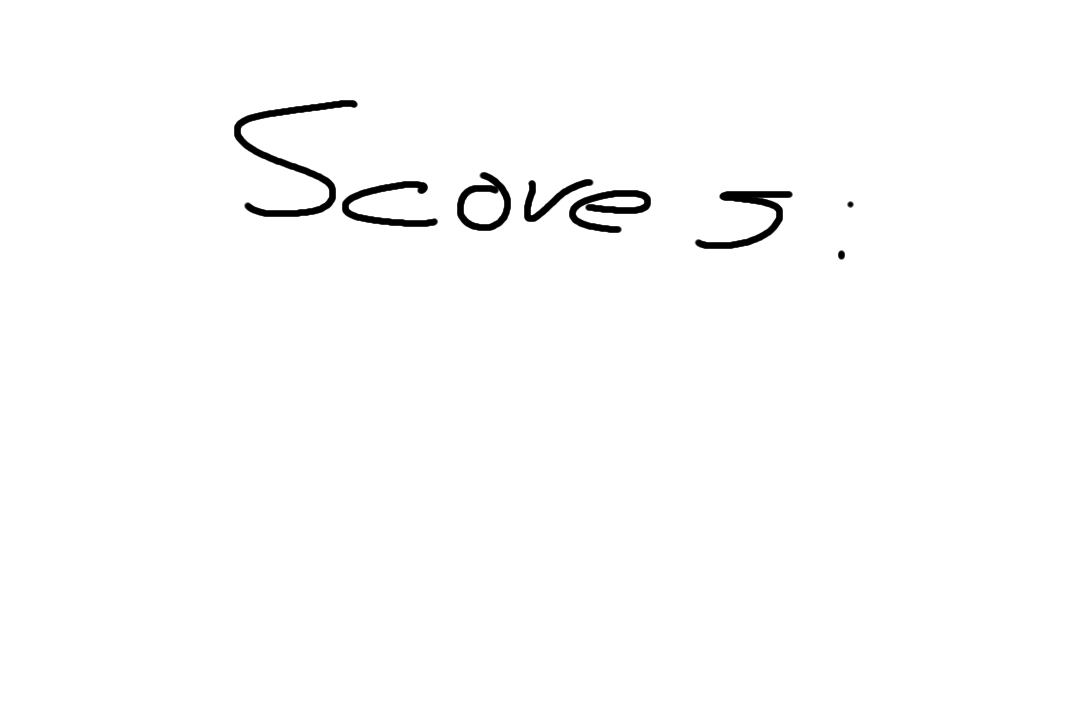
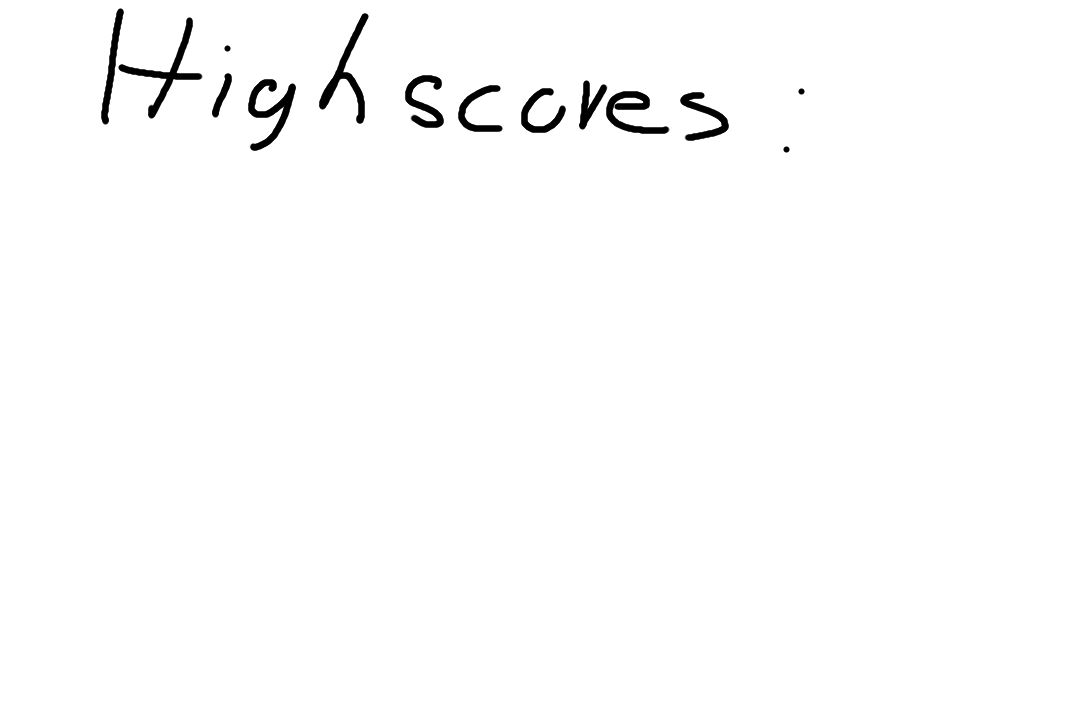
Fixed bugs getting stuck Fixed player not resetting properly in main menu

diff --git a/game.py b/game.py
@@ -158,7 +158,7 @@ class Game(arcade.Window):
                 file.write(str(value) + "\n")
 
     def display_scores(self):
-        score_pos_y = SCREEN_HEIGHT / 4 * 3
+        score_pos_y = SCREEN_HEIGHT / 3 * 2
         font_size = 20
         for score in self.high_scores:
             score = str(score)
@@ -167,11 +167,12 @@ class Game(arcade.Window):
                 start_x=SCREEN_WIDTH / 2,
                 start_y=score_pos_y,
                 font_name="arial",
-                font_size=font_size,
+                font_size=40,
                 color=arcade.color.BLACK,
                 align="center",
                 anchor_x="center",
                 anchor_y="center",
+                bold=True
             )
             score_pos_y += -font_size * 2
 
@@ -278,6 +279,7 @@ class Game(arcade.Window):
                 self.high_scores.append(self.player.current_score)
                 self.player.reset()
                 self.reset_all_creatures()
+                self.reset_all_obstacles()
                 for creature in self.all_creature_sprites_list:
                     creature.reset_to_random_position()
 
@@ -475,6 +477,7 @@ class Game(arcade.Window):
             )
             if len(collision_list) > 0:
                 if not creature.frozen:
+                    creature.center_x += creature.collision_radius *0.1
                     creature.reverse_movement()
 
         if self.player.is_attacking is False:

diff --git a/player.py b/player.py
@@ -117,6 +117,10 @@ class Player(arcade.Sprite):
         self.current_session_scores_list.append(self.current_score)
         self.current_score = 0
         self.dead = False
+        self.current_health = MAX_HEALTH
+        self.spin_attack_amount = 0
+        self.freeze_attack_amount = 0
+        self.teleport_amount = 0
 
     def select_attack_type(self, attack_type):
         """Select an attack type
